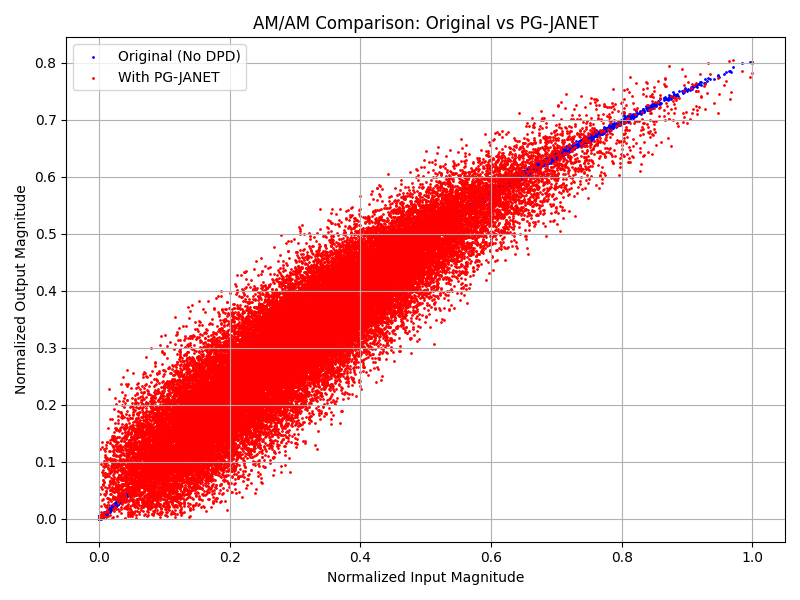
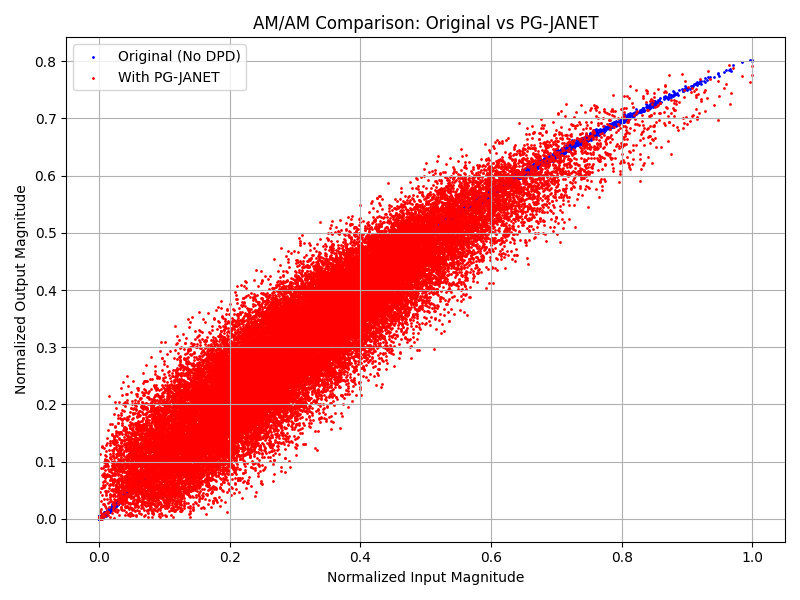
modified:   __pycache__/train_pg_janet_class.cpython-39.pyc 	modified:   direct_learning.py 	modified:   indirect_learning.py 	modified:   pg_janet_am_am_comparison.png 	modified:   pg_janet_am_pm_comparison_fixed.png 	new file:   pg_janet_inverse_am_am_comparison.png 	new file:   pg_janet_inverse_a

Changed region(s): [[0.0312, 0.09, 0.9688, 0.87], [0.0312, 0.09, 0.0938, 0.12]]

diff --git a/indirect_learning.py b/indirect_learning.py
@@ -1,0 +1,140 @@
+import numpy as np
+import matplotlib.pyplot as plt
+import torch
+from scipy.io import loadmat
+from scipy.fft import fft, fftshift
+from scipy.signal import savgol_filter
+from train_pg_janet_class import PGJanetRNN
+
+# Load data
+mat = loadmat('for_DPD.mat', squeeze_me=True)
+X = mat['TX1_BB']
+Y = mat['TX1_SISO']
+
+# In indirect learning: input is distorted Y, target is original X
+amplitudes = np.abs(Y).astype(np.float32)
+phases = np.angle(Y).astype(np.float32)
+targets = np.stack([X.real, X.imag], axis=-1).astype(np.float32)
+
+# Normalize
+combined = np.concatenate([amplitudes.reshape(-1, 1), targets], axis=1)
+mean = combined.mean(axis=0)
+std = combined.std(axis=0)
+
+amplitudes_norm = (amplitudes - mean[0]) / (std[0] + 1e-8)
+targets_norm = (targets - mean[1:]) / (std[1:] + 1e-8)
+
+# Prepare sequences
+seq_len = 3
+x_abs_seq, theta_seq = [], []
+for i in range(len(amplitudes_norm) - seq_len):
+    x_abs_seq.append(amplitudes_norm[i:i+seq_len])
+    theta_seq.append(phases[i:i+seq_len])
+
+x_abs_seq = torch.tensor(x_abs_seq).unsqueeze(-1).float()
+theta_seq = torch.tensor(theta_seq).unsqueeze(-1).float()
+
+
+# Load inverse-trained PG-JANET model
+model = PGJanetRNN(hidden_size=32)
+model.load_state_dict(torch.load("pg_janet_rnn_inverse.pth", map_location=torch.device('cpu')))
+model.eval()
+
+# Predict
+with torch.no_grad():
+    y_pred_norm = model(x_abs_seq, theta_seq).numpy()
+
+# Denormalize
+y_pred = y_pred_norm * std[1:] + mean[1:]
+y_pred_complex = y_pred[:, -1, 0] + 1j * y_pred[:, -1, 1]
+x_used = Y[seq_len:len(y_pred_complex)+seq_len]
+targets_used = X[seq_len:len(y_pred_complex)+seq_len]
+
+x_seq = np.array([X[i:i+seq_len] for i in range(len(X) - seq_len)])
+x_last = x_seq[:, -1]
+# -------------------------------
+# AM/AM Plot
+# -------------------------------
+input_mag = np.abs(x_used)
+output_mag = np.abs(targets_used)
+input_mag_pred = np.abs(x_used)
+output_mag_pred = np.abs(y_pred_complex)
+
+input_mag_norm = input_mag / np.max(input_mag)
+output_mag_norm = output_mag / np.max(input_mag)
+input_mag_pred /= np.max(input_mag)
+output_mag_pred /= np.max(input_mag)
+
+plt.figure(figsize=(8, 6))
+plt.scatter(input_mag_norm, output_mag_norm, s=1, color='blue', label='Original (Before Inverse)')
+plt.scatter(input_mag_pred, output_mag_pred, s=1, color='red', label='After PG-JANET Inverse')
+plt.xlabel("Normalized Input Magnitude")
+plt.ylabel("Normalized Output Magnitude")
+plt.title("AM/AM Comparison: Indirect Learning (Inverse)")
+plt.grid(True)
+plt.legend()
+plt.tight_layout()
+plt.savefig('pg_janet_inverse_am_am_comparison.png')
+plt.show()
+
+# -------------------------------
+# AM/PM Plot
+# -------------------------------
+
+
+input_phase = np.angle(Y)
+output_phase = np.angle(X)
+am_pm_original = np.unwrap(output_phase - input_phase)
+
+input_phase_pred = np.angle(x_last)
+output_phase_pred = np.angle(y_pred_complex)
+am_pm_pred = np.unwrap(output_phase_pred - input_phase_pred)
+
+input_mag = np.abs(Y)
+input_mag_pred = np.abs(x_last)
+input_mag /= np.max(input_mag)
+input_mag_pred /= np.max(input_mag)
+
+am_pm_pred -= np.mean(am_pm_pred)
+am_pm_original = am_pm_original[seq_len:]
+am_pm_original -= np.mean(am_pm_original)
+
+plt.figure(figsize=(8, 6))
+plt.scatter(input_mag[seq_len:], am_pm_original, s=1, color='blue', label='Original')
+plt.scatter(input_mag_pred, am_pm_pred, s=1, color='red', label='PG-JANET Inverse')
+plt.xlabel("Normalized Input Magnitude")
+plt.ylabel("Phase Shift (radians)")
+plt.title("AM/PM Comparison: Indirect Learning (Inverse)")
+plt.grid(True)
+plt.legend()
+plt.tight_layout()
+plt.savefig('pg_janet_inverse_am_pm_comparison_fixed.png')
+plt.show()
+
+# -------------------------------
+# Spectrum Plot
+# -------------------------------
+def plot_spectrum(sig, label, color):
+    sig_conj = np.conj(sig)
+    spectrum = fftshift(fft(sig_conj))
+    spectrum_db = 20 * np.log10(np.abs(spectrum) + 1e-12) - 46.3
+    spectrum_db_smooth = savgol_filter(spectrum_db, 101, 3)
+    N = len(sig)
+    f = np.linspace(-0.5, 0.5, N)
+    plt.plot(f, spectrum_db_smooth, color=color, label=label, linewidth=2)
+
+predicted_signal = np.zeros_like(X, dtype=np.complex64)
+predicted_signal[seq_len:seq_len + len(y_pred_complex)] = y_pred_complex
+
+plt.figure(figsize=(10, 6))
+plot_spectrum(Y, 'PA Output (Distorted)', 'blue')
+plot_spectrum(X, 'Original Input', 'black')
+plot_spectrum(predicted_signal, 'PG-JANET Inverse Output', 'red')
+plt.title("Spectrum Comparison (Inverse Learning)")
+plt.xlabel("Normalized Frequency")
+plt.ylabel("Magnitude (dB)")
+plt.grid(True)
+plt.legend()
+plt.tight_layout()
+plt.savefig("pg_janet_inverse_spectrum_comparison.png")
+plt.show()

diff --git a/direct_learning.py b/direct_learning.py
@@ -44,16 +44,19 @@ with torch.no_grad():
 
 # Denormalize
 y_pred = y_pred_norm * std[1:] + mean[1:]
-y_pred_complex = y_pred[:, -1, 0] + 1j * y_pred[:, -1, 1]
+y_pred_avg = y_pred[:, -3:, :].mean(axis=1)
+y_pred_complex = y_pred_avg[:, 0] + 1j * y_pred_avg[:, 1]
 x_used = X[seq_len:len(y_pred_complex)+seq_len]
+targets_used = Y[seq_len:len(y_pred_complex)+seq_len]
 
-
+x_seq = np.array([X[i:i+seq_len] for i in range(len(X) - seq_len)])
+x_last = x_seq[:, -1]
 # -------------------------------
 # AM/AM Plot
 # -------------------------------
-input_mag = np.abs(X)
-output_mag = np.abs(Y)
-input_mag_pred = np.abs(x_used)
+input_mag = np.abs(x_used)
+output_mag = np.abs(targets_used)
+input_mag_pred = np.abs(x_last)
 output_mag_pred = np.abs(y_pred_complex)
 
 input_mag_norm = input_mag / np.max(input_mag)
@@ -78,8 +81,7 @@ plt.show()
 # -------------------------------
 # --- FIXED AM/PM Section ---
 # Get last inputs to match prediction step
-x_seq = np.array([X[i:i+seq_len] for i in range(len(X) - seq_len)])
-x_last = x_seq[:, -1]
+
 
 # Phase shift = angle(Y) - angle(X_last)
 input_phase = np.angle(X)
@@ -114,3 +116,39 @@ plt.legend()
 plt.tight_layout()
 plt.savefig('pg_janet_am_pm_comparison_fixed.png')
 plt.show()
+
+# -------------------------------
+#spec
+# Plot frequency spectrum of original, distorted, and predicted signals
+from scipy.fft import fft, fftshift
+from scipy.signal import savgol_filter
+
+def plot_spectrum(sig, label, color):
+    sig_conj = np.conj(sig)
+    spectrum = fftshift(fft(sig_conj))
+    spectrum_db = 20 * np.log10(np.abs(spectrum) + 1e-12) - 46.3
+    spectrum_db_smooth = savgol_filter(spectrum_db, 101, 3)  # window length = 101, poly order = 3
+
+    N = len(sig)
+    f = np.linspace(-0.5, 0.5, N)
+    plt.plot(f, spectrum_db_smooth, color=color, label=label, linewidth=2)
+
+# Pad predicted signal to match input length
+predicted_signal = np.zeros_like(X, dtype=np.complex64)
+predicted_signal[seq_len:seq_len + len(y_pred_complex)] = y_pred_complex
+
+plt.figure(figsize=(10, 6))
+plot_spectrum(X, 'Original Input', 'black')
+plot_spectrum(Y, 'PA Output (Distorted)', 'blue')
+plot_spectrum(predicted_signal, 'PG-JANET Output', 'red')
+
+plt.title("Spectrum Comparison (FFT, Smoothed)")
+plt.xlabel("Normalized Frequency")
+plt.ylabel("Magnitude (dB)")
+plt.grid(True)
+plt.legend()
+plt.tight_layout()
+plt.savefig("pg_janet_spectrum_comparison.png")
+plt.show()
+
+

diff --git a/train_pg_janet_class.py b/train_pg_janet_class.py
@@ -149,7 +149,7 @@ if __name__ == "__main__":
     # -----------------------------
     val_ratio = 0.2  # 20% for validation
     # Create the dataset with a sequence length of 3
-    dataset = PGJanetSequenceDataset('for_DPD.mat', seq_len=3, invert=True)
+    dataset = PGJanetSequenceDataset('for_DPD.mat', seq_len=10, invert=False)
     n_val = int(len(dataset) * val_ratio)
     n_train = len(dataset) - n_val
     train_set, val_set = random_split(dataset, [n_train, n_val])
@@ -158,7 +158,7 @@ if __name__ == "__main__":
     train_loader = DataLoader(train_set, batch_size=64, shuffle=True)
     val_loader = DataLoader(val_set, batch_size=1, shuffle=False)
     real_loader=DataLoader(dataset, batch_size=1, shuffle=False)
-    train_model = TrainModel()
+    train_model = TrainModel(hidden_size=128)
     train_model.train()
     train_model.save_model('pg_janet_rnn_inverse.pth')
 
